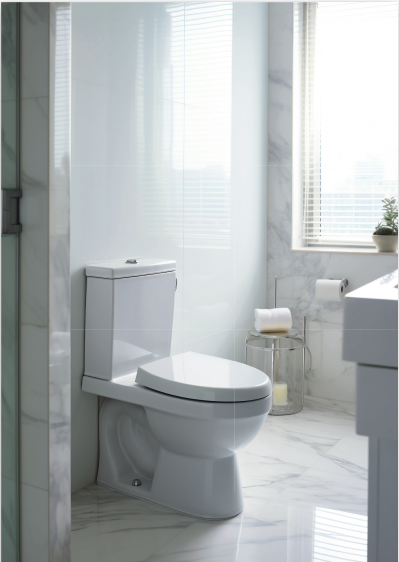
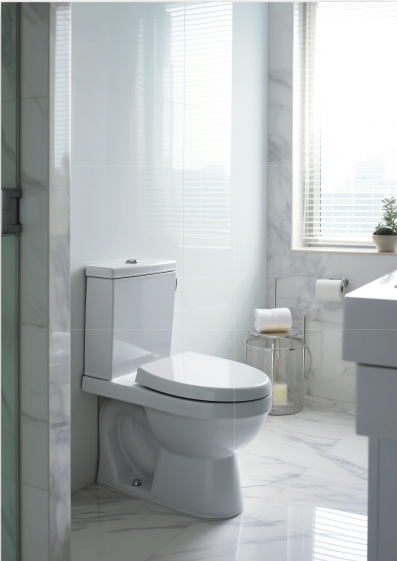
ajuste sección categorías

diff --git a/index.html b/index.html
@@ -25,7 +25,7 @@
         <nav
             class="navbar navbar-expand-lg blur border-radius-sm top-0 z-index-3 shadow position-sticky py-3 start-0 end-0">
             <div class="container px-1">
-                <a class="navbar-brand font-weight-bolder ms-lg-0 " href="https://www.creative-tim.com/astro">DISTRIBUIDORA MILBRU</a>
+                <a class="navbar-brand font-weight-bolder ms-lg-0 " href="#">DISTRIBUIDORA MILBRU</a>
                 <button class="navbar-toggler shadow-none ms-2" type="button" data-bs-toggle="collapse"
                     data-bs-target="#navigation" aria-controls="navigation" aria-expanded="false"
                     aria-label="Toggle navigation">
@@ -36,23 +36,24 @@
                     <ul class="navbar-nav ms-auto">
                         <li class="nav-item">
                             <a class="nav-link text-dark font-weight-bold d-flex align-items-center me-2 "
-                                aria-current="page" href="/astro-ecommerce/">All Components</a>
+                                aria-current="page" href="#">Inicio</a>
                         </li>
                         <li class="nav-item dropdown">
                             <a class="nav-link text-dark dropdown-toggle font-weight-bold d-flex align-items-center me-2 "
                                 aria-current="page" id="pagesExample" data-bs-toggle="dropdown"
-                                aria-expanded="false">Pages <i class="bi bi-chevron-down ms-1"></i></a>
+                                aria-expanded="false">Categorías <i class="bi bi-chevron-down ms-1"></i></a>
                             <ul class="dropdown-menu" aria-labelledby="pagesExample">
-                                <li><a class="dropdown-item" href="/astro-ecommerce/landing/">Landing Page</a></li>
-                                <li><a class="dropdown-item" href="/astro-ecommerce/product/">Product Page</a></li>
-                                <li><a class="dropdown-item" href="/astro-ecommerce/shopping-cart/">Shopping Cart</a>
+                                <li><a class="dropdown-item" href="#">Sanitarios y Griferías</a></li>
+                                <li><a class="dropdown-item" href="#">Accesorios de Baño</a></li>
+                                <li><a class="dropdown-item" href="#">Instalaciones de Agua</a></li>
+                                <li><a class="dropdown-item" href="#">Hogar</a>
                                 </li>
                             </ul>
                         </li>
                         <li class="nav-item">
                             <a class="nav-link text-dark font-weight-bold d-flex align-items-center me-2 "
                                 aria-current="page"
-                                href="https://www.creative-tim.com/learning-lab/astro/overview/astro-ecommerce">Documentation</a>
+                                href="#">Contacto</a>
                         </li>
                         <li class="nav-item"><a
                                 class="nav-link text-dark font-weight-bold d-flex align-items-center me-2 "
@@ -95,7 +96,7 @@
                             <div class="card-body text-center w-100 pt-8">
                                 <div class="d-block mt-10">
                                     <!--<p class="text-white font-weight-bold mb-1">Pre-fall</p>-->
-                                    <h4 class="text-white font-weight-bolder">Sanitarios y Griferías</h4><a href="#"
+                                    <h4 class="text-white font-weight-bolder" style="min-height: 65px;">Sanitarios y Griferías</h4><a href="#"
                                         class="text-white text-sm font-weight-semibold mb-0">Ver productos &gt;</a>
                                 </div>
                             </div>
@@ -109,7 +110,7 @@
                             <div class="card-body text-center w-100 pt-8">
                                 <div class="d-block mt-10">
                                     <!--<p class="text-white font-weight-bold mb-1">Designers</p>-->
-                                    <h4 class="text-white font-weight-bolder">Accesorios de Baño</h4><a href="#"
+                                    <h4 class="text-white font-weight-bolder" style="min-height: 65px;">Accesorios de Baño</h4><a href="#"
                                         class="text-white text-sm font-weight-semibold mb-0">Ver productos &gt;</a>
                                 </div>
                             </div>
@@ -123,7 +124,7 @@
                             <div class="card-body text-center w-100 pt-8">
                                 <div class="d-block mt-10">
                                     <!--<p class="text-white font-weight-bold mb-1">Summer</p>-->
-                                    <h4 class="text-white font-weight-bolder">Instalaciones de Agua</h4><a href="#"
+                                    <h4 class="text-white font-weight-bolder" style="min-height: 65px;">Instalaciones de Agua</h4><a href="#"
                                         class="text-white text-sm font-weight-semibold mb-0">Ver productos &gt;</a>
                                 </div>
                             </div>
@@ -137,7 +138,7 @@
                             <div class="card-body text-center w-100 pt-8">
                                 <div class="d-block mt-10">
                                     <!--<p class="text-white font-weight-bold mb-1">Sale</p>-->
-                                    <h4 class="text-white font-weight-bolder">Hogar</h4><a href="#"
+                                    <h4 class="text-white font-weight-bolder" style="min-height: 65px;">Hogar</h4><a href="#"
                                         class="text-white text-sm font-weight-semibold mb-0">Ver productos &gt;</a>
                                 </div>
                             </div>
